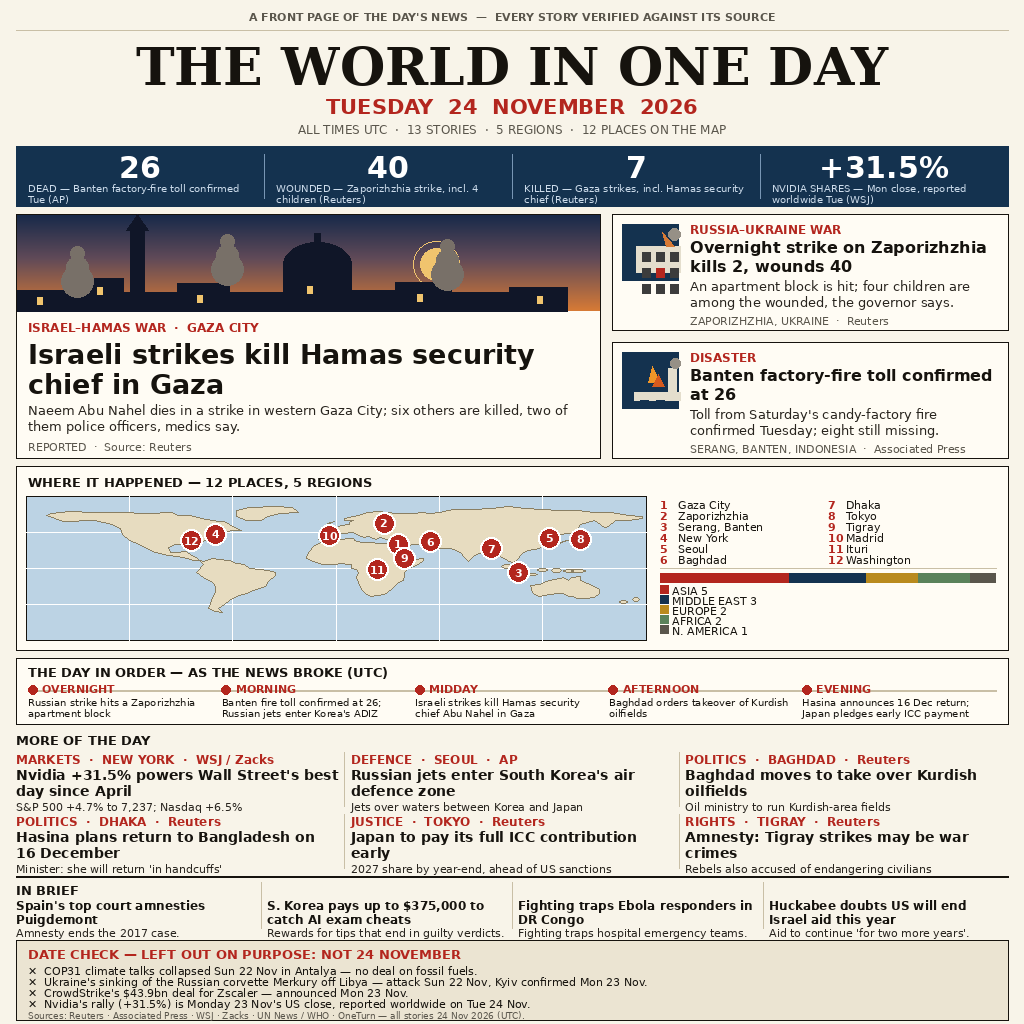
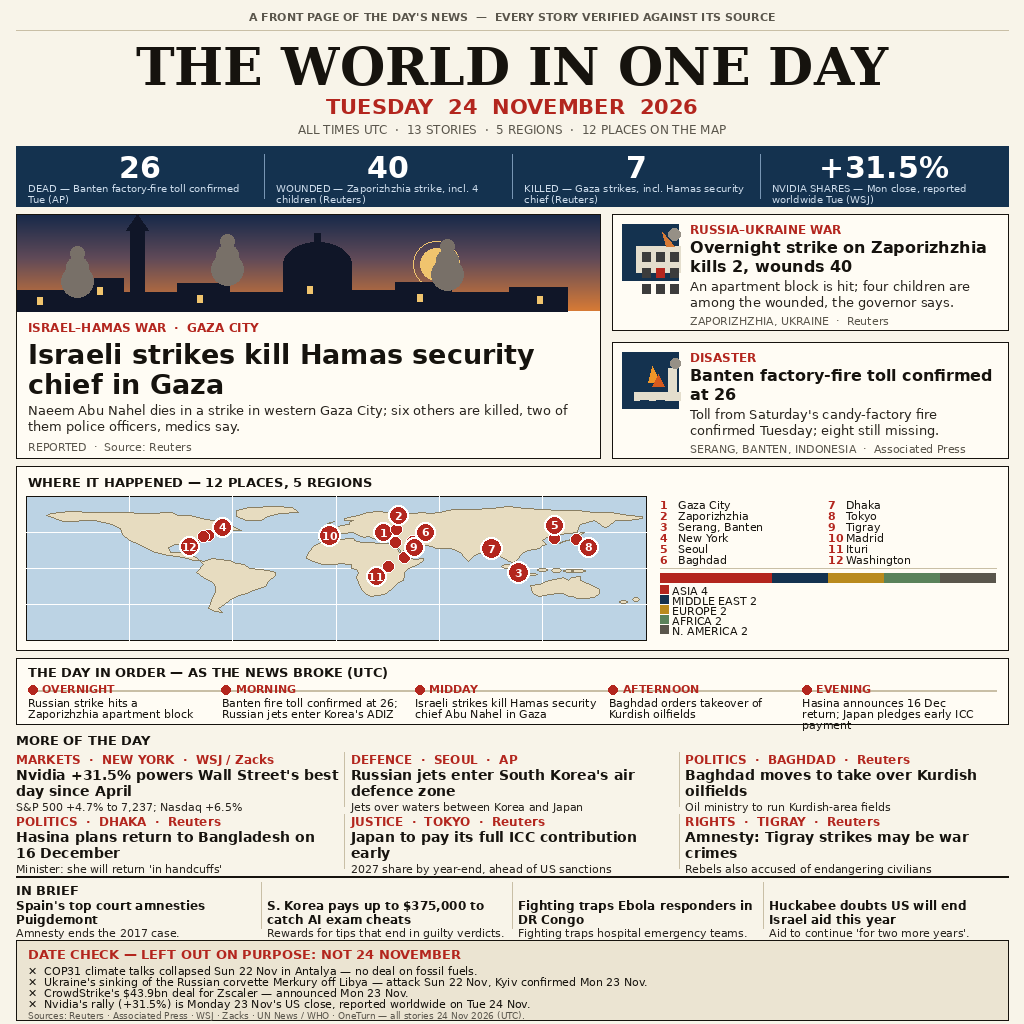
Fix Codex REVISI blockers: true map-pin positions + place-count region bar
- Pins now sit on true lon/lat; close pins get a leader-line number
  badge instead of a faked display coordinate (Baghdad was in Iran,
  Zaporizhzhia in Belarus, Seoul/Tokyo at sea, Ituri in west DRC,
  Washington in Alabama).
- Region bar now counts PLACES (12: Asia 4, Middle East 2, Europe 2,
  Africa 2, N. America 2) to match the '12 PLACES' header; it counted
  stories (13) before. Seoul hosts two stories on one pin.
- Timeline text back to 11px (fits after the earlier clip fix).

diff --git a/render.py b/render.py
@@ -204,12 +204,25 @@ def draw_map(draw, x, y, w, h, pins):
         ey = ry / 180.0 * h
         draw.ellipse([cx - ex, cy - ey, cx + ex, cy + ey], fill=LAND, outline=LAND_LINE)
     for p in pins:
-        px, py = lonlat_to_xy(p.get("dlon", p["lon"]), p.get("dlat", p["lat"]), x, y, w, h)
-        draw.ellipse([px - 11, py - 11, px + 11, py + 11], fill=(255, 255, 255))
-        draw.ellipse([px - 9, py - 9, px + 9, py + 9], fill=RED)
+        px, py = lonlat_to_xy(p["lon"], p["lat"], x, y, w, h)
+        # dot always on the true spot; the number badge may sit offset,
+        # joined to its dot by a leader line, so close pins stay readable
+        # without lying about where they are.
         f = font(F_SANS_B, 11)
-        tw = draw.textlength(str(p["n"]), font=f)
-        draw.text((px - tw / 2, py - 7), str(p["n"]), font=f, fill=(255, 255, 255))
+        if "bx" in p and "by" in p:
+            bx, by = px + p["bx"], py + p["by"]
+            draw.line([(px, py), (bx, by)], fill=RED, width=1)
+            draw.ellipse([px - 6, py - 6, px + 6, py + 6], fill=(255, 255, 255))
+            draw.ellipse([px - 5, py - 5, px + 5, py + 5], fill=RED)
+            draw.ellipse([bx - 10, by - 10, bx + 10, by + 10], fill=(255, 255, 255))
+            draw.ellipse([bx - 8, by - 8, bx + 8, by + 8], fill=RED)
+            tw = draw.textlength(str(p["n"]), font=f)
+            draw.text((bx - tw / 2, by - 7), str(p["n"]), font=f, fill=(255, 255, 255))
+        else:
+            draw.ellipse([px - 11, py - 11, px + 11, py + 11], fill=(255, 255, 255))
+            draw.ellipse([px - 9, py - 9, px + 9, py + 9], fill=RED)
+            tw = draw.textlength(str(p["n"]), font=f)
+            draw.text((px - tw / 2, py - 7), str(p["n"]), font=f, fill=(255, 255, 255))
 
 
 def main():
@@ -332,7 +345,7 @@ def main():
     tl = d["timeline"]
     tw5 = (RX - MX - 24) / 5
     f_when = font(F_SANS_B, 11)
-    f_tl = font(F_SANS, 10)
+    f_tl = font(F_SANS, 11)
     lx0 = MX + 12
     dr.line([(lx0 + 4, ty + 32), (RX - 12, ty + 32)], fill=LINE, width=2)
     for i, item in enumerate(tl):
